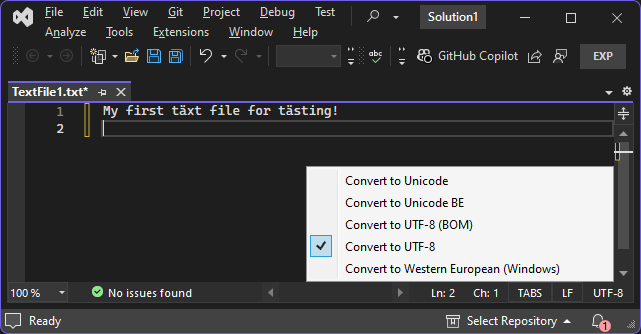
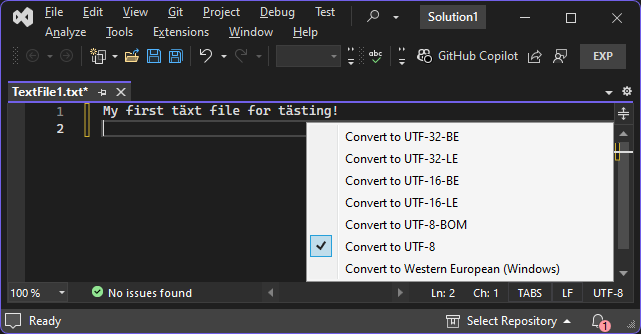
fix encoding names in menu and add UTF32 conversion to it

Changed region(s): [[0.468, 0.3593, 0.9672, 0.6287], [0.6864, 0.6587, 0.7488, 0.6886]]

diff --git a/EncodingMargin.xaml.cs b/EncodingMargin.xaml.cs
@@ -140,9 +140,11 @@ namespace UTFdefault
             // Menu
             ContextMenu = new ContextMenu();
             (Encoding encoding, string name)[] encodings = {
-                ( Encoding.Unicode, "Unicode" ),
-                ( Encoding.BigEndianUnicode, "Unicode BE" ),
-                ( Encoding.UTF8, "UTF-8 (BOM)" ),
+                ( new UTF32Encoding(true, true), "UTF-32-BE" ),
+                ( Encoding.UTF32, "UTF-32-LE" ),
+                ( Encoding.BigEndianUnicode, "UTF-16-BE" ),
+                ( Encoding.Unicode, "UTF-16-LE" ),
+                ( Encoding.UTF8, "UTF-8-BOM" ),
                 ( new UTF8Encoding(false), "UTF-8" ),
                 ( Encoding.Default, Encoding.Default.EncodingName )
             };
